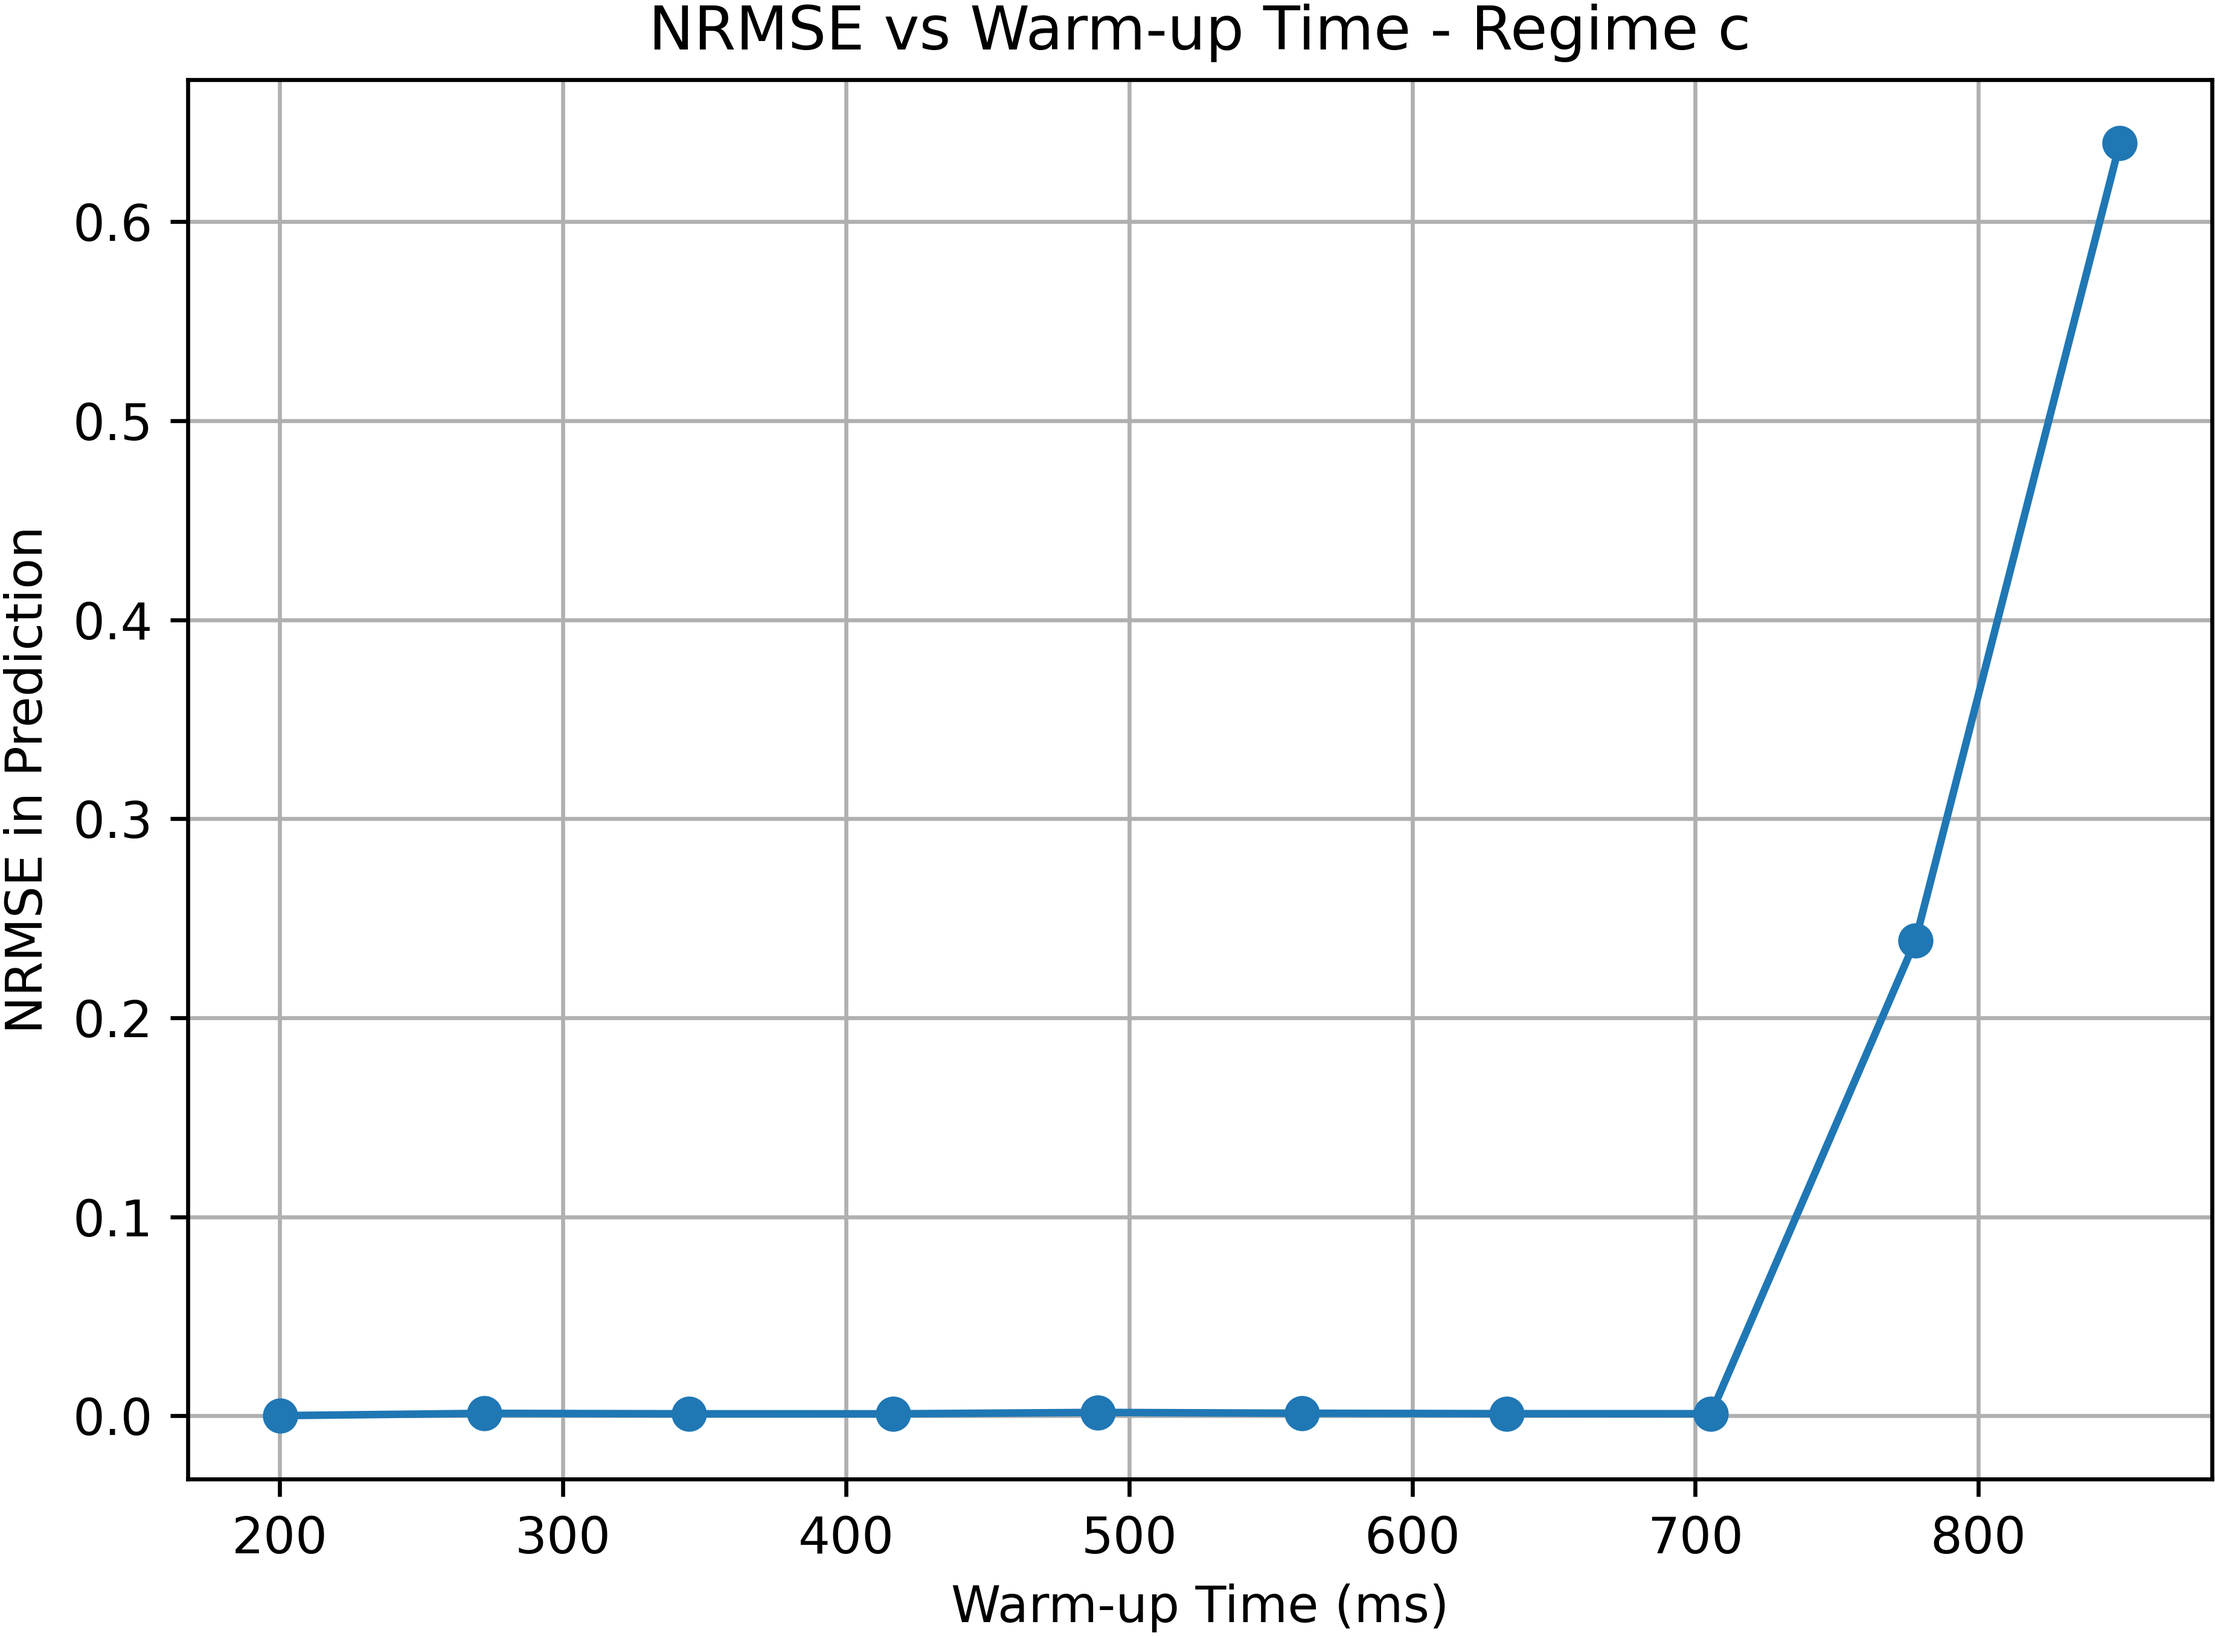
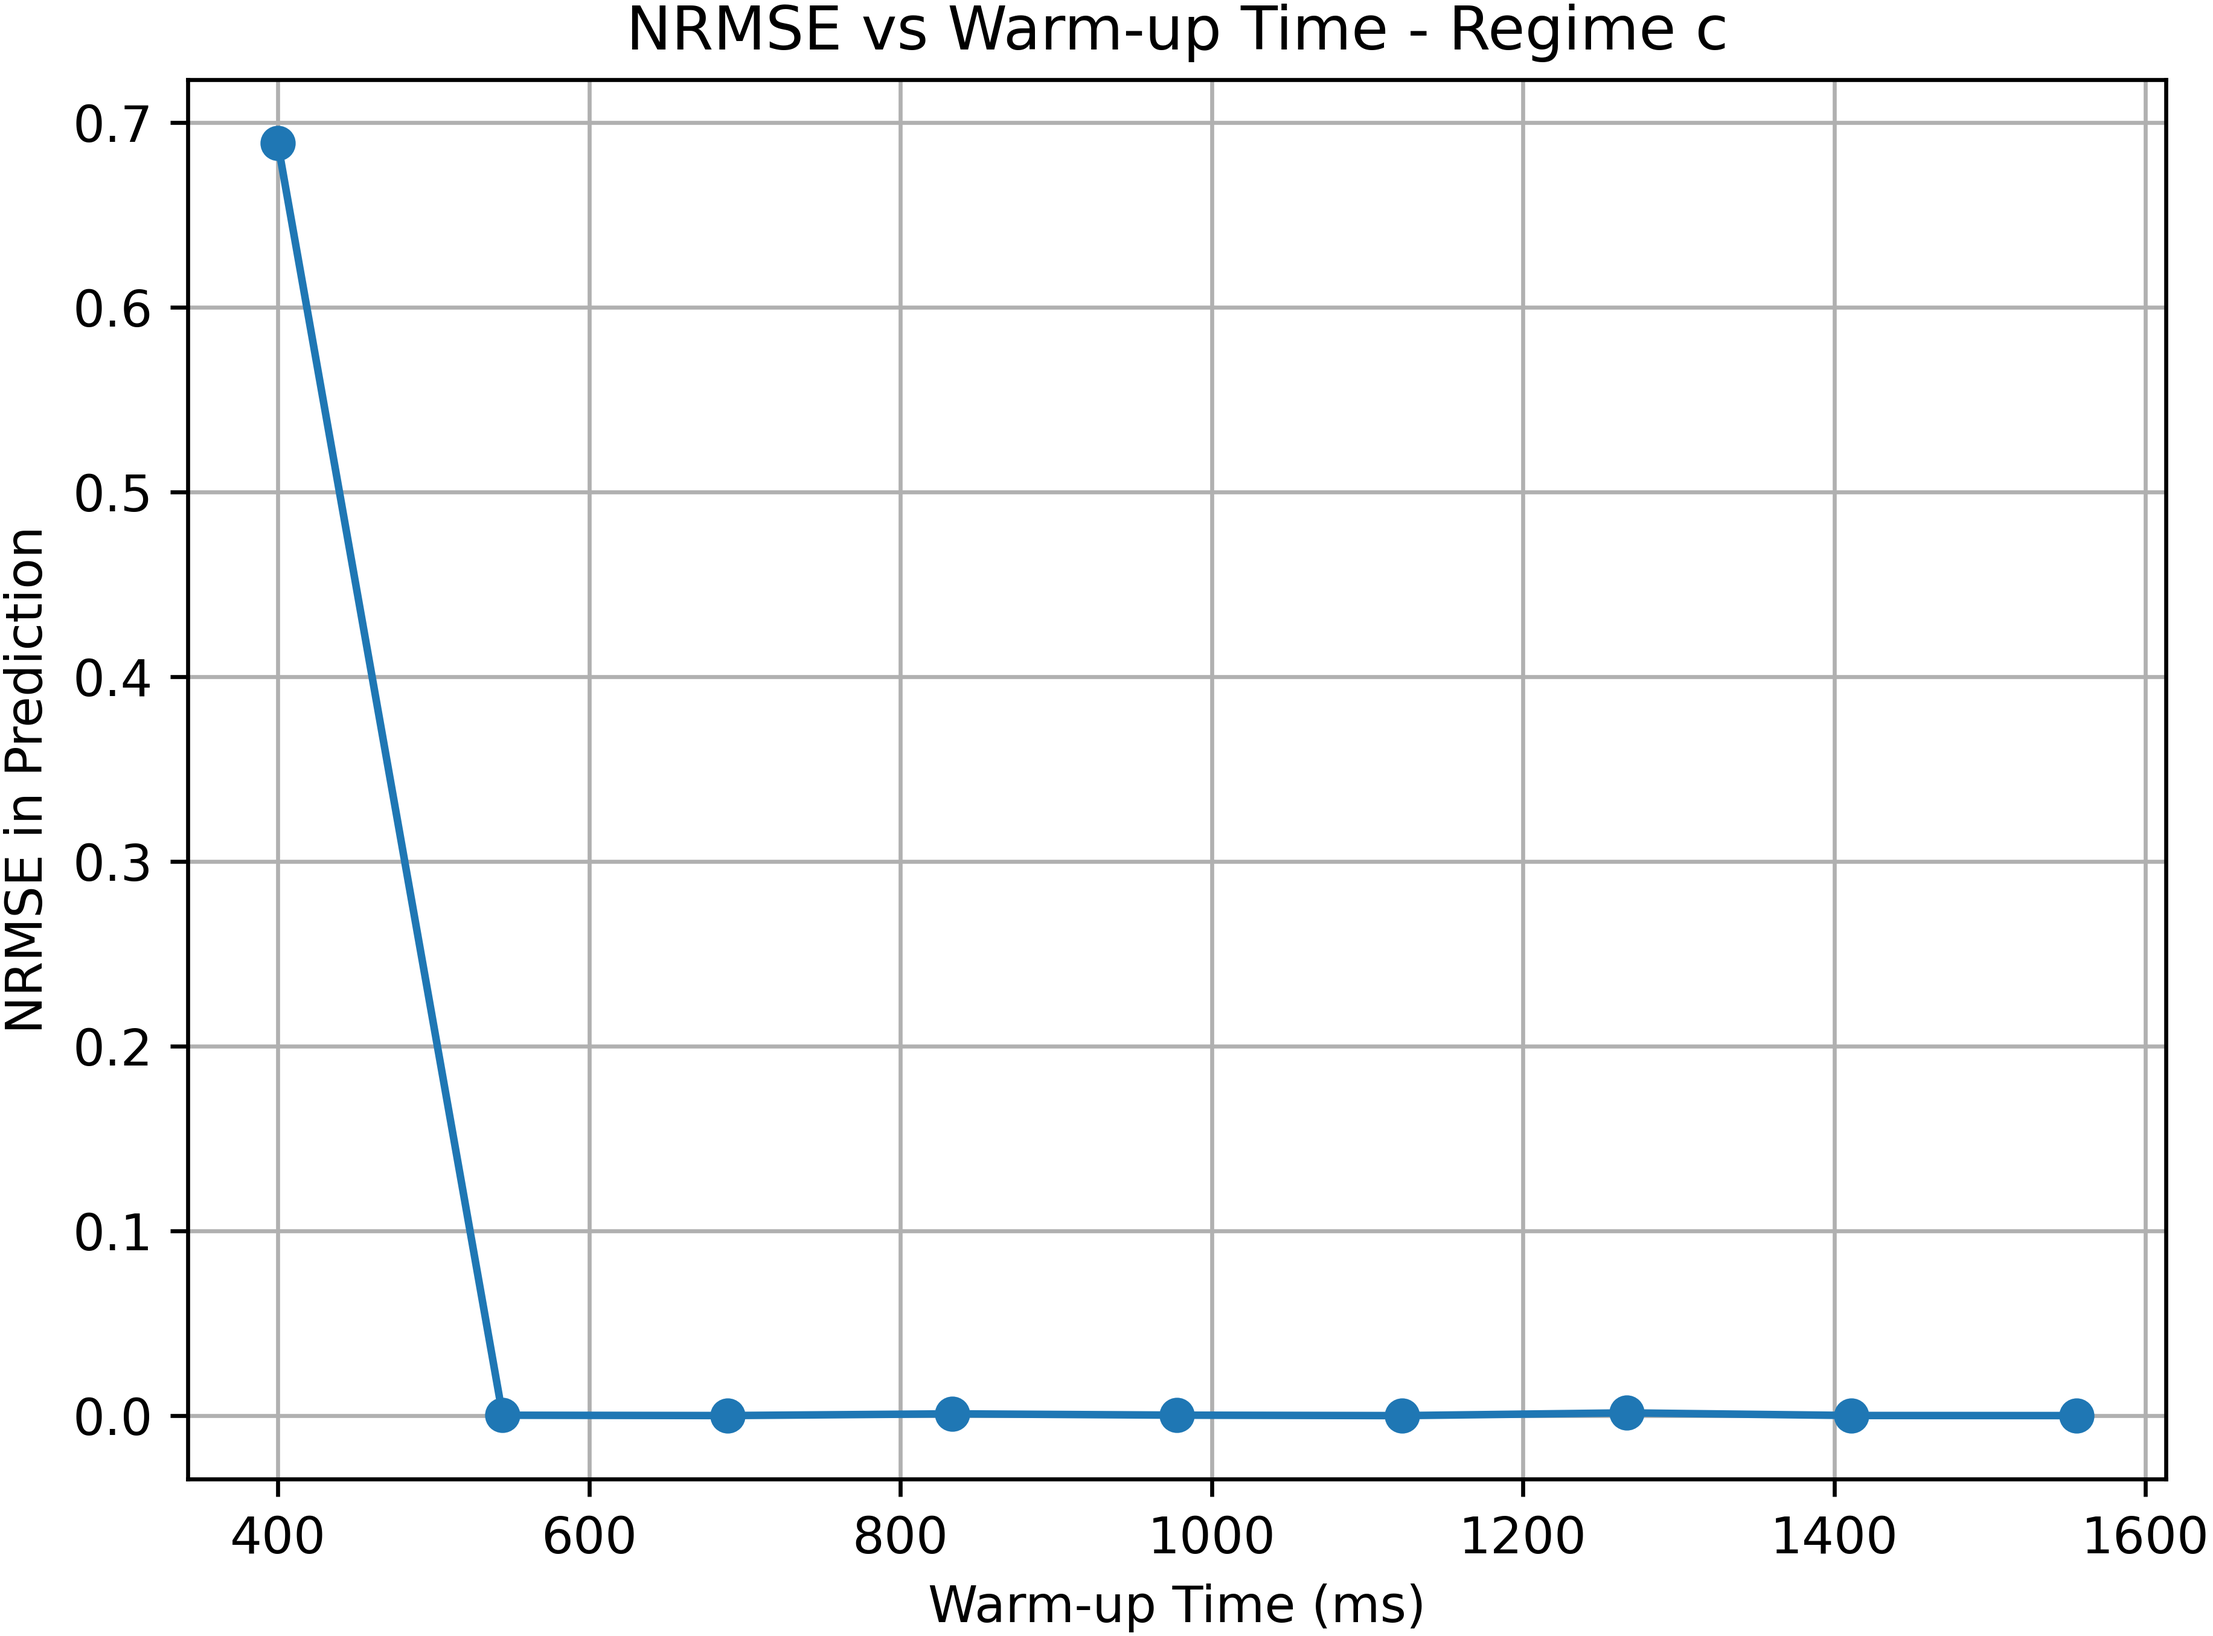
B2 included transients

diff --git a/B2/Prob-B-2.py b/B2/Prob-B-2.py
@@ -42,14 +42,14 @@ def main():
         params = optimized_params[label]
         
         data = np.asarray(all_data[label]['x']).flatten()
-        data = data[Tt:]
+        #data = data[Tt:]
         
-        N_train = int(train_fraction * len(data))
+        #N_train = int(train_fraction * len(data))
         
-        warmup_points = np.linspace(1, N_train - 2, 10, dtype=int)
+        warmup_points = np.linspace(Tt + 1, len(data) - 2, 10, dtype=int)
         
         nrmse_pred_list = []
-        for Nwarmup in tqdm(warmup_points, desc="Warmup points"):
+        for N_warmup in tqdm(warmup_points, desc="Warmup points"):
             esn = ESN(Nres=params['Nres'], p=params['p'], alpha=params['alpha'], rho=params['rho'])
             
             scaler = StandardScaler()
@@ -58,12 +58,12 @@ def main():
             inputs = data_normalized[:-1]
             targets = data_normalized[1:]
             
-            u_train = inputs[:N_train]
-            y_train = targets[:N_train]
-            u_predict = inputs[N_train:]
-            y_predict = targets[N_train:]
+            u_train = inputs[:N_warmup]
+            y_train = targets[:N_warmup]
+            u_predict = inputs[N_warmup:]
+            y_predict = targets[N_warmup:]
             
-            esn.train(u_train, y_train, warmup=Nwarmup)
+            esn.train(u_train, y_train, warmup=Tt)
             predictions_normalized, _ = esn.predict(u_predict)
             
             predictions = scaler.inverse_transform(predictions_normalized)
